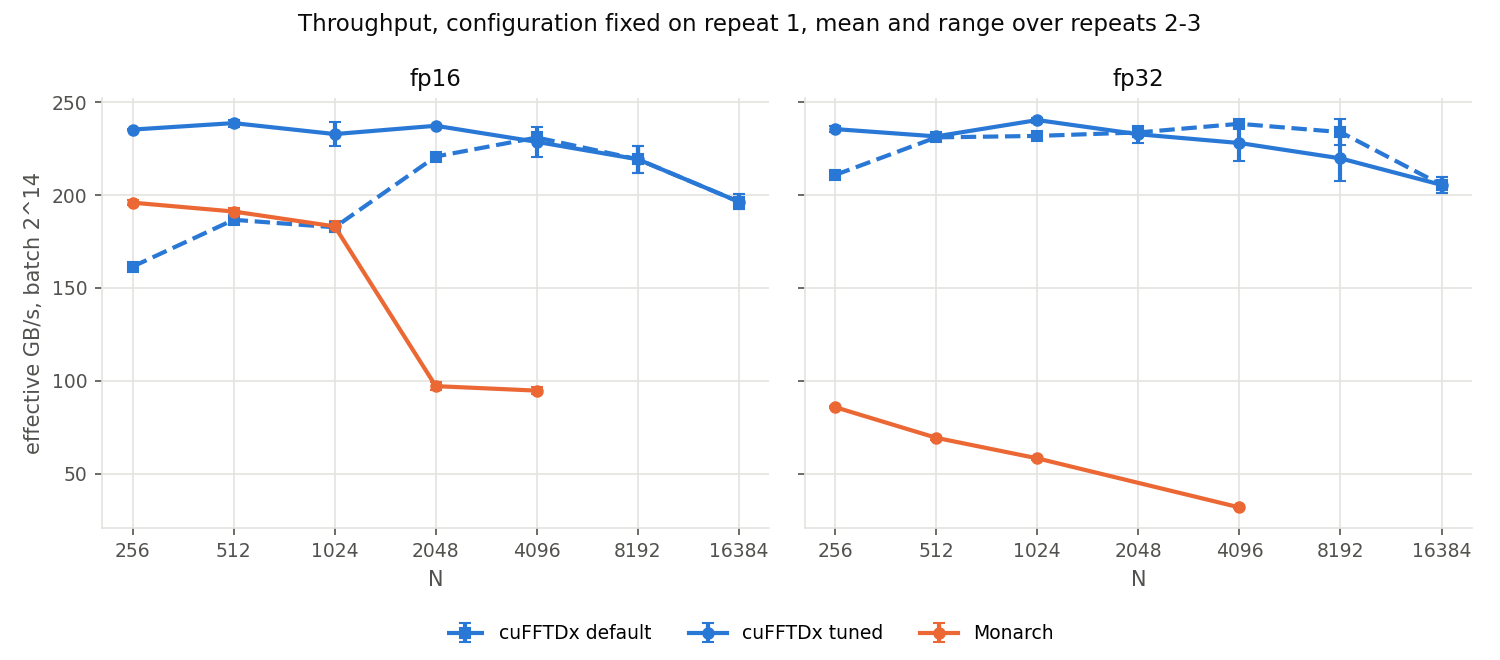
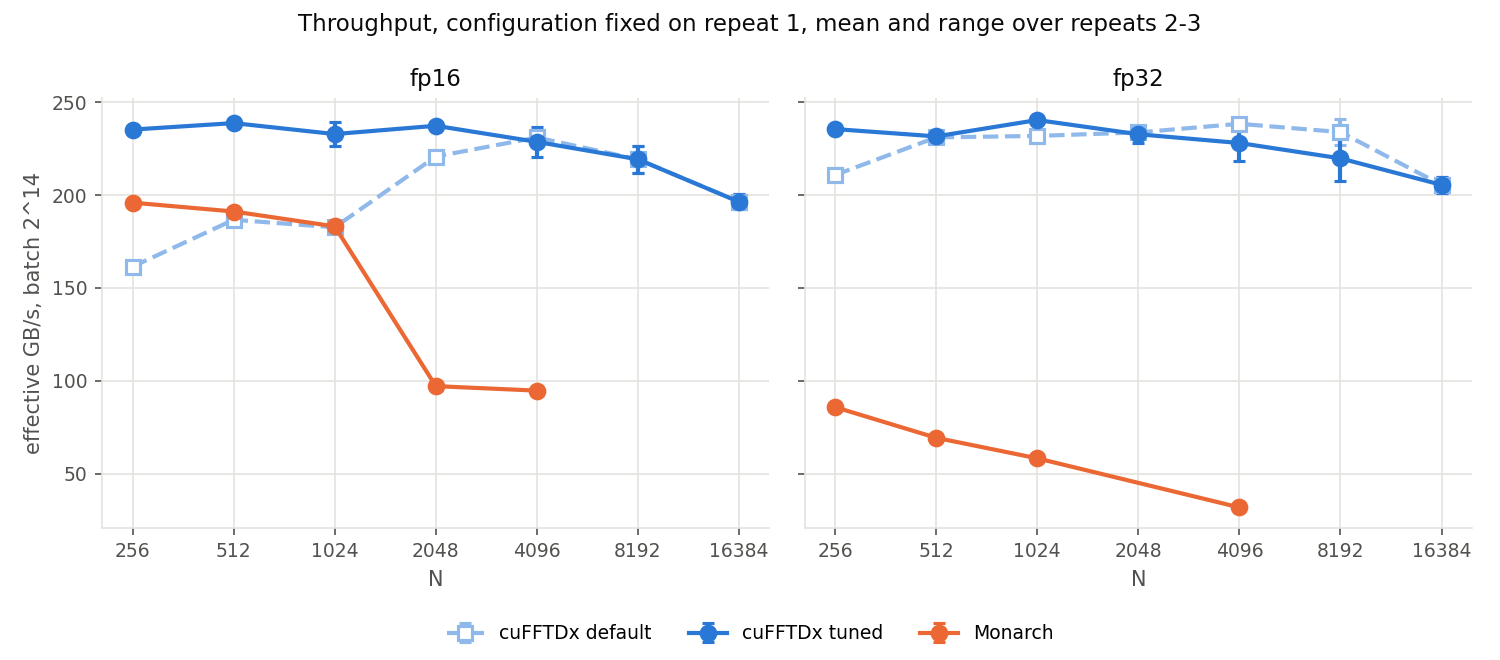
draw default cufftdx in a light tint with hollow squares

diff --git a/scripts/final.py b/scripts/final.py
@@ -136,17 +136,18 @@ def main():
 def figures(sel, reps, later, err, out):
     fig, axes = plt.subplots(1, 2, figsize=(10, 4.4), sharey=True)
     for ax, prec in zip(axes, plot.PRECS):
-        for role, color, ls, mk, name in (("default", plot.COLOR["cufftdx"], "--", "s", "cuFFTDx default"),
-                                         ("tuned", plot.COLOR["cufftdx"], "-", "o", "cuFFTDx tuned"),
-                                         ("monarch", plot.COLOR["monarch"], "-", "o", "Monarch")):
+        # default in a light tint with hollow squares: same hue and line style alone did not separate it from tuned
+        for role, color, ls, mk, face, name in (("default", "#8fb9ea", "--", "s", "white", "cuFFTDx default"),
+                                               ("tuned", plot.COLOR["cufftdx"], "-", "o", None, "cuFFTDx tuned"),
+                                               ("monarch", plot.COLOR["monarch"], "-", "o", None, "Monarch")):
             ns = sorted(n for (r, p, n) in sel if r == role and p == prec)
             ys, lo, hi = [], [], []
             for n in ns:
                 v = [rep.get(sel[(role, prec, n)]) for rep in later]
                 m, l, h = stats([x["gbps_eff"] for x in v if x]) if all(v) else (float("nan"),) * 3
                 ys.append(m), lo.append(m - l), hi.append(h - m)
-            ax.errorbar(ns, ys, yerr=[lo, hi], color=color, linestyle=ls, marker=mk, markersize=5, linewidth=2,
-                        capsize=3, label=name)
+            ax.errorbar(ns, ys, yerr=[lo, hi], color=color, linestyle=ls, marker=mk, markersize=7, linewidth=2,
+                        markerfacecolor=face or color, markeredgewidth=1.5, capsize=3, label=name)
         plot.style(ax, "effective GB/s, batch 2^14" if prec == "fp16" else "")
         plot.xticks(ax, sorted({n for (_, p, n) in sel if p == prec}))
         ax.set_title(prec, color=plot.INK, fontsize=11)
